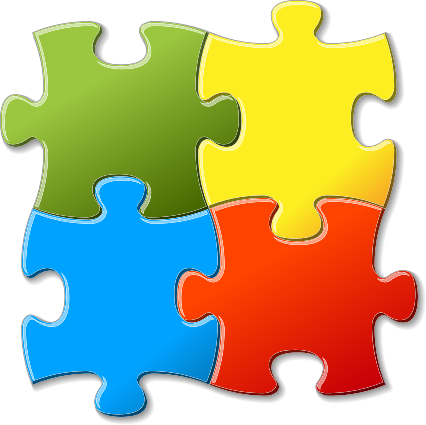
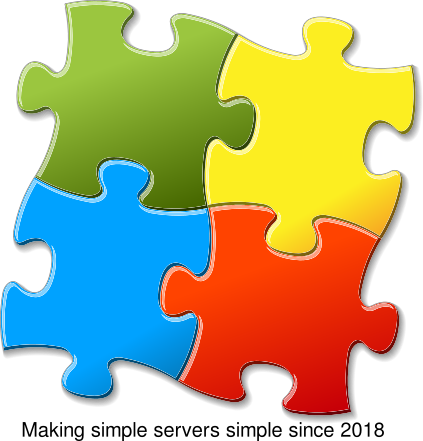
start some polishing

diff --git a/README.md b/README.md
@@ -1,9 +1,4 @@
-<p style="float: right; width: 30%; margin-left: 3rem">
-  <img aria-roledescription="logo" alt="Image of jigsaw puzzle pieces" src="assets/g4547.png"/>
-  <figcaption style="font-size: 70%; font-weight: bold; text-align: center; border-top: 1px solid #ccc; border-bottom: 1px solid #ccc">
-    Making simple servers simple since 2018
-  </figcaption>
-</p>
+  <img align="right" aria-roledescription="logo" alt="Image of jigsaw puzzle pieces" src="assets/g4547.png"/>
 
 
 # Component
